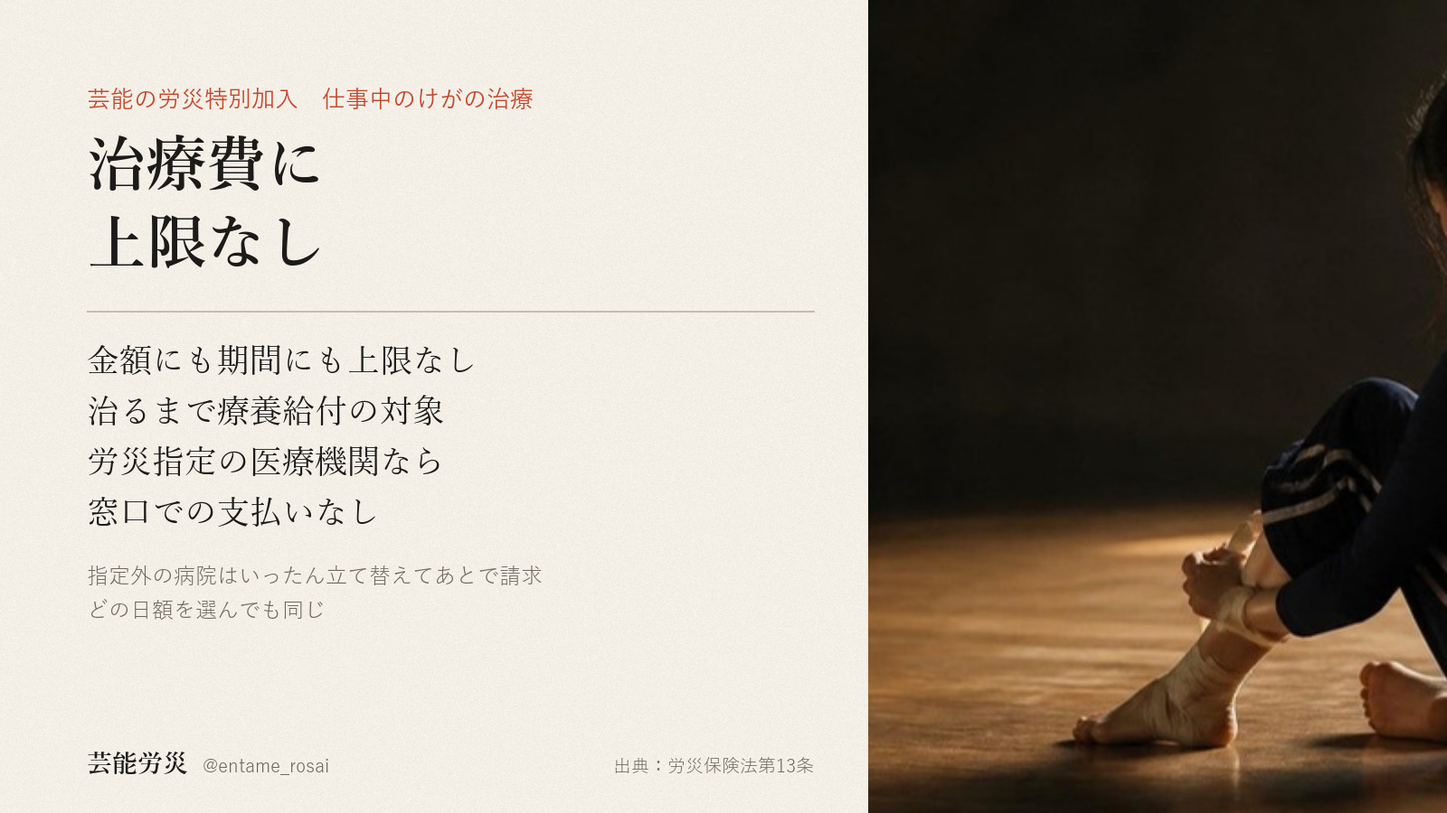
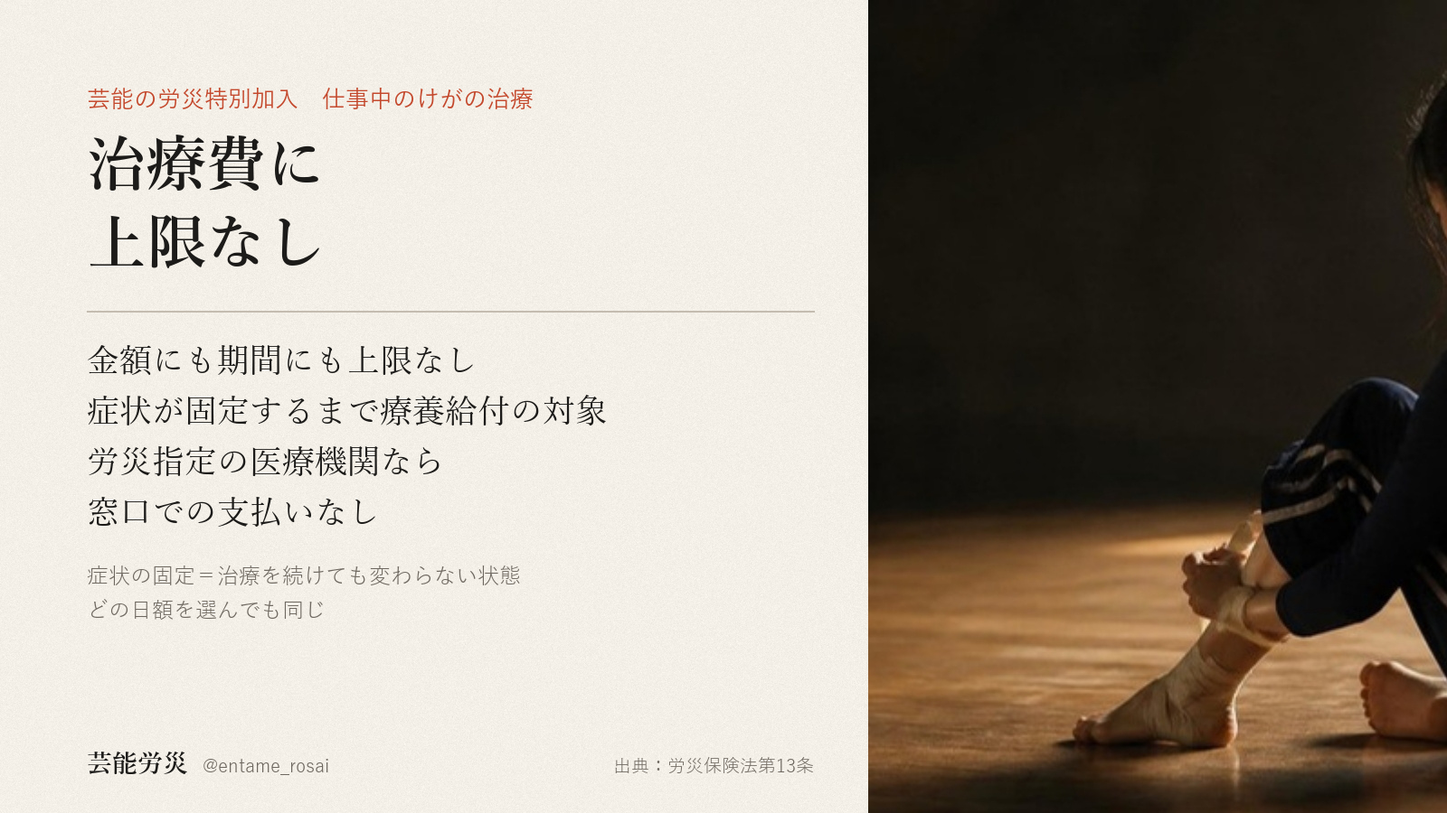
投稿デスク更新 2026-11-11

Changed region(s): [[0.0625, 0.4667, 0.4375, 0.5289], [0.0625, 0.6844, 0.375, 0.7156]]

diff --git a/index.html b/index.html
@@ -351,7 +351,7 @@ dialog img{width:100%;height:auto;border-radius:18px;display:block}
 <div class="toast" id="toast">コピーしました</div>
 <dialog id="zoom"><img alt=""></dialog>
 
-<script id="desk-data" type="application/json">{"account":"@entame_rosai","days":[{"date":"2026-11-11","label":"11月11日（水）　今日","items":[{"key":"ig","date":"2026-11-01","label":"Instagram（@entame_rosai）","account":"@entame_rosai","text":"労災の特別加入は、申込のときに「何月から入るか」「何か月入るか」「給付基礎日額をいくらにするか」の3つを自分で決めます。\n\n何月から入るかは、11月1日時点の申込フォームでは2026年11月から2027年3月までの中から選べます。何か月入るかは1か月から。公演や撮影の期間に合わせて決められます。\n\n給付基礎日額は、補償の基準になる1日あたりの額です。3,500円から25,000円までの16段階から、実際の収入とは切り離して自分で選びます。\n\n毎月の支払いは、日額10,000円を選んだ場合で月1,600円。内訳は保険料912円、組合費500円、手数料188円です。ほかに入会事務手数料2,000円が初月だけかかるので、初月の支払いは3,600円です。保険料912円の部分は社会保険料控除の対象です。\n\nひとつ大事なことがあります。さかのぼって入ることはできません。補償は申込で選んだ月から始まり、それより前のけがは対象になりません。現場の予定が決まったら、先に手続きを済ませておく形です。\n\n手続きはプロフィール欄のサイトからできます。迷う点があれば、コメントに書いてもらえれば調べます。\n\n私たちは東京労働局長の承認を受けた労災保険特別加入団体で、加入の受付もしている当事者です。そのうえで書いています。特別加入を扱う団体は、私たちのほかにもあります。\n\n※給付の可否・金額は個別の状況により労働基準監督署が判断します。\n※金額は、給付基礎日額10,000円を選んだ場合の例です。","chars":628,"lines":16,"hashtags":0,"limit":0,"status":"生成済・未投稿（本人の投稿許可あり。Chrome で instagram.com を開く操作が承認待ちのまま5分応答がなく送信されず。次に本人がいるときに投稿する）","url":"","images":[{"name":"01.png","path":"assets/2026-11-01/instagram/01.png"},{"name":"02.png","path":"assets/2026-11-01/instagram/02.png"},{"name":"03.png","path":"assets/2026-11-01/instagram/03.png"},{"name":"04.png","path":"assets/2026-11-01/instagram/04.png"},{"name":"05.png","path":"assets/2026-11-01/instagram/05.png"},{"name":"06.png","path":"assets/2026-11-01/instagram/06.png"},{"name":"07.png","path":"assets/2026-11-01/instagram/07.png"}],"alt":"--- 1枚目 ---\n暗い劇場の舞台の縁に腰かけ、赤い客席を見ている人の後ろ姿の写真。文字：フリーランスの労災保険。加入の手続き。申込で決めることと毎月の支払い。さかのぼって入ることはできないので、先に手続きの中身をまとめました。芸能労災 @entame_rosai 01/07\n\n--- 2枚目 ---\n上半分は夕方の住宅街の路上で、ブームマイクを掲げる録音係とカメラを担ぐ撮影係の後ろ姿の写真。下は生成り色の紙面。文字：申込で決めること1。何月から入るか。開始月は申込のときに選びます。11月1日時点では、2026年11月から2027年3月までの中から選べます。補償は、選んだ月から始まります。出典：当団体申込フォーム（11月1日時点）。02/07\n\n--- 3枚目 ---\n右に、屋外のカメラ機材とモニターを操作する手の縦長写真。左は紙面。文字：申込で決めること2。何か月入るか。加入期間は1か月から選べます。公演や撮影の期間に合わせて決められます。何月から何か月かを申込のときにあわせて決めます。出典：当団体申込フォーム（11月1日時点）。03/07\n\n--- 4枚目 ---\n文字だけの紙面。申込で決めること3。16段階。給付基礎日額を3,500円から25,000円まで。4列の一覧：3,500、4,000、5,000、6,000、7,000、8,000、9,000、10,000（朱色）、12,000、14,000、16,000、18,000、20,000、22,000、24,000、25,000。単位は円。補償の基準になる1日あたりの額で、実際の収入とは切り離して自分で選びます。朱色の10,000円を次のページの例に使います。出典：労災保険法（特別加入）。04/07\n\n--- 5枚目 ---\n文字だけの紙面。毎月の支払い。日額10,000円なら月1,600円。表：内訳／月額。保険料 912円。組合費 500円。手数料 188円。合計 1,600円。ほかに入会事務手数料2,000円が初月だけかかります。初月の支払いは3,600円です。支払いのうち保険料912円の部分は、社会保険料控除の対象です。出典：当団体申込フォーム（11月1日時点）。05/07\n\n--- 6枚目 ---\n上に、黒い服のスタッフ2人が大きな機材ケースを運ぶ後ろ姿の写真の帯。下は紙面。文字：大事なこと。さかのぼって入ることはできない。補償の開始：申込で選んだ月から。それより前のけが：対象外。現場の予定が決まったら：先に手続き。手続きはプロフィール欄のサイトから。迷う点があれば、コメントに書いてもらえれば調べます。出典：当団体申込フォーム（11月1日時点）。06/07\n\n--- 7枚目 ---\n舞台袖の衣装ラックと、パイプ椅子の上に開いた台本の写真を暗くした全面。文字：入る月と期間は自分で決められます。何月から何か月入るか、日額をいくらにするか。申込のときに自分で選べます。迷う点があれば、コメントに書いてもらえれば調べます。私たちは東京労働局長の承認を受けた労災保険特別加入団体で、加入の受付もしている当事者です。そのうえで書いています。特別加入を扱う団体は、私たちのほかにもあります。※給付の可否・金額は個別の状況により労働基準監督署が判断します。※金額は、給付基礎日額10,000円を選んだ場合の例です。芸能労災 @entame_rosai 07/07","check":{"errors":[],"warns":[]},"made":"2026-11-01","slot":"2026-11-11"},{"key":"x","date":"2026-11-02","label":"X（@entame_rosai）","account":"@entame_rosai","text":"俳優やダンサー、舞台や撮影のスタッフが労災の特別加入に入れるようになったのは2021年4月からです。日額10,000円を選んだ場合、月1,600円（保険料912円、組合費500円、手数料188円）と初月だけ入会事務手数料2,000円です。（出典：厚生労働省・当団体申込フォーム）","chars":139,"lines":1,"hashtags":0,"limit":140,"status":"（台帳に記載なし）","url":"","images":[{"name":"x_image.png","path":"assets/2026-11-02/x_image/x_image.png"}],"alt":"舞台袖の暗い幕のそばで、黒い服のスタッフが台本を開いて立っている写真。奥に暖色の舞台照明がにじんでいる。左の生成り色の紙面に次の文字。芸能の労災特別加入。2021年4月。俳優もダンサーもスタッフも この月から特別加入の対象に。日額10,000円なら月1,600円（保険料912円 組合費500円 手数料188円）。初月だけ入会事務手数料2,000円。出典：厚生労働省 当団体申込フォーム。芸能労災 @entame_rosai","check":{"errors":[],"warns":[]},"made":"2026-11-02","slot":"2026-11-11"}]},{"date":"2026-11-12","label":"11月12日（木）　投稿予定","items":[{"key":"x","date":"2026-11-04","label":"X（@entame_rosai）","account":"@entame_rosai","text":"労災の特別加入で受けられる給付は7種類です。けがの治療にかかる療養、働けない日の休業、1年6か月たっても治らず重い場合の傷病年金、障がいが残ったときの給付、介護、遺族、葬祭料。けがをした日が加入期間に入っていることが条件です。（出典：厚生労働省・労災保険法）","chars":129,"lines":1,"hashtags":0,"limit":140,"status":"（台帳に記載なし）","url":"","images":[{"name":"x_image.png","path":"assets/2026-11-04/x_image/x_image.png"}],"alt":"板張りの稽古場で、バレエシューズを履いたダンサーの足がつま先を伸ばしている写真。左の紙面に次の文字。芸能の労災特別加入　給付は7種類　けがの治療にかかる療養　働けない日の休業　傷病年金　障がい　介護　遺族　葬祭料　けがをした日が加入期間に入っていることが条件　出典：厚生労働省 労災保険法　芸能労災 @entame_rosai","check":{"errors":[],"warns":[]},"made":"2026-11-04","slot":"2026-11-12"}]},{"date":"2026-11-13","label":"11月13日（金）　投稿予定","items":[{"key":"x","date":"2026-11-05","label":"X（@entame_rosai）","account":"@entame_rosai","text":"労災の特別加入の申込で最初の月に払う額は、日額10,000円を選んだ場合3,600円です。内訳は月の支払い1,600円（保険料912円＋組合費500円＋手数料188円）と、初月だけの入会事務手数料2,000円。支払いはクレジットカードか銀行振込。（当団体申込フォームの試算）","chars":137,"lines":1,"hashtags":0,"limit":140,"status":"（台帳に記載なし）","url":"","images":[{"name":"x_image.png","path":"assets/2026-11-05/x_image/x_image.png"}],"alt":"舞台袖の机で、ヘッドセットを置いた手元に台本を広げる舞台監督。奥の舞台では稽古中の出演者が照明に照らされている。左の紙面の文字：芸能の労災特別加入　最初の月に払う額は3,600円　内訳　日額10,000円の場合　保険料 912円　組合費 500円　手数料 188円　入会事務手数料 2,000円　入会事務手数料は初月だけ　2か月目からは月1,600円　支払いはクレジットカードか銀行振込　芸能労災 @entame_rosai　出典：当団体の申込フォームの試算","check":{"errors":[],"warns":[]},"made":"2026-11-05","slot":"2026-11-13"}]},{"date":"2026-11-14","label":"11月14日（土）　投稿予定","items":[{"key":"x","date":"2026-11-06","label":"X（@entame_rosai）","account":"@entame_rosai","text":"労災の特別加入に加入の審査はありません。年齢や持病、危険の大きい仕事を理由に断られず、保険料の割増もありません。日額10,000円を選んだ場合、月1,600円（保険料912円＋組合費500円＋手数料188円）、初月だけ入会事務手数料2,000円です。（当団体申込フォームの試算）","chars":139,"lines":1,"hashtags":0,"limit":140,"status":"（台帳に記載なし）","url":"","images":[{"name":"x_image.png","path":"assets/2026-11-06/x_image/x_image.png"}],"alt":"木の壁の稽古場で、青いマットの上で黒い練習着のアクション俳優が後ろ向きに脚を開いてストレッチをしている。奥の窓から光が入っている。左の紙面の文字：芸能の労災特別加入　加入に審査はない　年齢や持病を理由に断られない　危険の大きい仕事でも割増なし　日額10,000円の場合　月1,600円　保険料912円＋組合費500円＋手数料188円　初月だけ入会事務手数料2,000円　日額は3,500円から25,000円まで自分で選ぶ　芸能労災 @entame_rosai　出典：当団体の申込フォームの試算","check":{"errors":[],"warns":[]},"made":"2026-11-06","slot":"2026-11-14"}]},{"date":"2026-11-15","label":"11月15日（日）　投稿予定","items":[{"key":"x","date":"2026-11-07","label":"X（@entame_rosai）","account":"@entame_rosai","text":"労災の特別加入の給付基礎日額は、申込のときに3,500円から25,000円までの16段階から自分で選びます。給付の額も保険料も、この日額で決まります。日額10,000円を選んだ場合、月の支払い1,600円と初月だけ入会事務手数料2,000円です。（当団体申込フォーム）","chars":134,"lines":1,"hashtags":0,"limit":140,"status":"（台帳に記載なし）","url":"","images":[{"name":"x_image.png","path":"assets/2026-11-07/x_image/x_image.png"}],"alt":"薄い紙色の面の右半分に、暗い劇場の客席を背に脚立の上で照明をつるす作業をするスタッフの写真。左に文字。芸能の労災特別加入　給付基礎日額／16段階／3,500円から25,000円まで　申込のときに自分で選ぶ／給付の額も保険料もこの日額で決まる　日額10,000円の場合　月の支払い1,600円　初月だけ入会事務手数料2,000円／芸能労災 @entame_rosai／出典：当団体の申込フォーム","check":{"errors":[],"warns":[]},"made":"2026-11-07","slot":"2026-11-15"}]},{"date":"2026-11-16","label":"11月16日（月）　投稿予定","items":[{"key":"x","date":"2026-11-08","label":"X（@entame_rosai）","account":"@entame_rosai","text":"労災の特別加入の保険料率は、芸能の仕事なら職種で変わりません。アクションでもダンスでも照明でも一律0.3%です。日額10,000円を選んだ場合、月の支払い1,600円と初月だけ入会事務手数料2,000円です。（厚労省の特別加入保険料率表・当団体申込フォーム）","chars":129,"lines":1,"hashtags":0,"limit":140,"status":"（台帳に記載なし）","url":"","images":[{"name":"x_image.png","path":"assets/2026-11-08/x_image/x_image.png"}],"alt":"右半分は青空を背景にした屋外ステージの照明トラスの写真。アルミのトラスに舞台用のスポットライトが5灯ほど吊られている。左半分は紙の色の面に文字。芸能の労災特別加入　保険料率／芸能の仕事なら 職種で変わらない／職種 保険料率／アクション 0.3%／ダンス 0.3%／照明・音響 0.3%／日額10,000円の場合　月の支払い1,600円／初月だけ入会事務手数料2,000円／芸能労災 @entame_rosai／出典：厚労省 料率表／当団体の申込フォーム","check":{"errors":[],"warns":["競合の調査由来かもしれない数字/語: 0.3%　… …職種で変わりません。アクションでもダンスでも照明でも一律0.3%です。日額10,000円を選んだ場合、月の支払い1,60…"]},"made":"2026-11-08","slot":"2026-11-16"}]},{"date":"2026-11-17","label":"11月17日（火）　投稿予定","items":[{"key":"x","date":"2026-11-09","label":"X（@entame_rosai）","account":"@entame_rosai","text":"労災の特別加入で仕事中のけがにより障がいが残ったとき、重い等級（1〜7級）の給付は一時金ではなく年金で、毎年続きます。日額10,000円を選んだ場合、1級で年313万円（日額の313日分）です。8〜14級は一時金です。（労災保険法 別表第1・当団体申込フォーム）","chars":131,"lines":1,"hashtags":0,"limit":140,"status":"（台帳に記載なし）","url":"","images":[{"name":"x_image.png","path":"assets/2026-11-09/x_image/x_image.png"}],"alt":"青い照明の暗い舞台に、木の椅子が4脚並んでいる写真。左の紙面に次の文字。芸能の労災特別加入　障がいが残ったとき。一時金ではなく年金で続く。重い等級（1〜7級）の給付は年金。日額10,000円を選んだ場合。1級で年313万円（日額の313日分）。8〜14級は一時金。芸能労災 @entame_rosai。出典：労災保険法 別表第1／当団体の申込フォーム","check":{"errors":[],"warns":[]},"made":"2026-11-09","slot":"2026-11-17"}]},{"date":"2026-11-18","label":"11月18日（水）　投稿予定","items":[{"key":"x","date":"2026-11-10","label":"X（@entame_rosai）","account":"@entame_rosai","text":"労災の特別加入は、現場へ向かう途中と帰り道のけがも通勤災害として対象です。芸能の仕事は適用から外れていません。ただし対象は合理的な経路に限られ、寄り道すると、その間とその後の移動は原則対象外です。給付は仕事中のけがと同じです。（労災保険法第7条・厚労省 特別加入制度のしおり）","chars":138,"lines":1,"hashtags":0,"limit":140,"status":"（台帳に記載なし）","url":"","images":[{"name":"x_image.png","path":"assets/2026-11-10/x_image/x_image.png"}],"alt":"ポスターが貼られた狭い廊下を、ギターケースを提げた長髪の人が奥へ歩いていく後ろ姿の写真。左の紙面に次の文字。芸能の労災特別加入　通勤災害。行き帰りのけがも対象。場面／労災の扱い。現場へ向かう途中／対象。現場からの帰り道／対象。経路外に寄り道／原則対象外。寄り道の間とその後の移動は原則対象外　給付は仕事中のけがと同じ。芸能労災 @entame_rosai。出典：労災保険法第7条／厚労省 特別加入のしおり","check":{"errors":[],"warns":[]},"made":"2026-11-10","slot":"2026-11-18"}]},{"date":"2026-11-19","label":"11月19日（木）　投稿予定","items":[{"key":"x","date":"2026-11-11","label":"X（@entame_rosai）","account":"@entame_rosai","text":"労災の特別加入で仕事中のけがを治療するとき、治療費に金額の上限も期間の上限もありません。治るまで療養給付の対象です。労災指定の医療機関なら窓口での支払いはなく、それ以外の病院ではいったん立て替えて、あとで請求します。どの日額を選んでも同じです。（労災保険法第13条）","chars":133,"lines":1,"hashtags":0,"limit":140,"status":"（台帳に記載なし）","url":"","images":[{"name":"x_image.png","path":"assets/2026-11-11/x_image/x_image.png"}],"alt":"暗い稽古場の床に座り、足首にテーピングを巻いているダンサーの足元の写真。左の紙面に次の文字。芸能の労災特別加入　仕事中のけがの治療。治療費に上限なし。金額にも期間にも上限なし。治るまで療養給付の対象。労災指定の医療機関なら窓口での支払いなし。指定外の病院はいったん立て替えてあとで請求。どの日額を選んでも同じ。芸能労災 @entame_rosai。出典：労災保険法第13条","check":{"errors":[],"warns":[]},"made":"2026-11-11","slot":"2026-11-19"}]}],"todo":[{"due":"今日","who":"作業者","title":"X（@entame_rosai）の今日の投稿","detail":"画像1枚を添付 → 代替テキストを入れる → 本文を貼る、の順。代替テキストは直近の投稿で入っていません。X は投稿後に足せません。","cid":"c-2026-11-02-x"},{"due":"今日","who":"作業者","title":"Instagram を1本投稿（11/1（日）作成の分）","detail":"画像7枚をこの順で添付し、1枚ずつ代替テキストを入れる。未投稿は1本。前回の公開から1週間あけて1本ずつ。","cid":"c-2026-11-01-ig"},{"due":"未公開のまま","who":"矢部さん","title":"note の記事を公開（09/18作成）","detail":"このデスクには載っていません（note は矢部さんの手元の下書き）。公開するときは見出し画像を必ず設定。","cid":""},{"due":"未公開のまま","who":"矢部さん","title":"note の記事を公開（10/09作成）","detail":"このデスクには載っていません（note は矢部さんの手元の下書き）。公開するときは見出し画像を必ず設定。","cid":""},{"due":"投稿のたび","who":"作業者","title":"投稿URLと名前を、そのカードの欄に保存","detail":"記録が集まらないと、何が出たかを後から確かめられません。","cid":""}],"builtAt":"2026-11-11 08:03","today":"2026-11-11","followers":{"date":"10-13","x":5,"ig":21,"note":0},"hero":"assets/hero.jpg","endpoint":"https://script.google.com/macros/s/AKfycbxhxM75PszpPOX_HDJ4yuBmQSqu1b7CXq2sbCxlqTZ_TyF8hROH2MyKnYNU11avb8UQCA/exec"}</script>
+<script id="desk-data" type="application/json">{"account":"@entame_rosai","days":[{"date":"2026-11-11","label":"11月11日（水）　今日","items":[{"key":"ig","date":"2026-11-01","label":"Instagram（@entame_rosai）","account":"@entame_rosai","text":"労災の特別加入は、申込のときに「何月から入るか」「何か月入るか」「給付基礎日額をいくらにするか」の3つを自分で決めます。\n\n何月から入るかは、11月1日時点の申込フォームでは2026年11月から2027年3月までの中から選べます。何か月入るかは1か月から。公演や撮影の期間に合わせて決められます。\n\n給付基礎日額は、補償の基準になる1日あたりの額です。3,500円から25,000円までの16段階から、実際の収入とは切り離して自分で選びます。\n\n毎月の支払いは、日額10,000円を選んだ場合で月1,600円。内訳は保険料912円、組合費500円、手数料188円です。ほかに入会事務手数料2,000円が初月だけかかるので、初月の支払いは3,600円です。保険料912円の部分は社会保険料控除の対象です。\n\nひとつ大事なことがあります。さかのぼって入ることはできません。補償は申込で選んだ月から始まり、それより前のけがは対象になりません。現場の予定が決まったら、先に手続きを済ませておく形です。\n\n手続きはプロフィール欄のサイトからできます。迷う点があれば、コメントに書いてもらえれば調べます。\n\n私たちは東京労働局長の承認を受けた労災保険特別加入団体で、加入の受付もしている当事者です。そのうえで書いています。特別加入を扱う団体は、私たちのほかにもあります。\n\n※給付の可否・金額は個別の状況により労働基準監督署が判断します。\n※金額は、給付基礎日額10,000円を選んだ場合の例です。","chars":628,"lines":16,"hashtags":0,"limit":0,"status":"生成済・未投稿（本人の投稿許可あり。Chrome で instagram.com を開く操作が承認待ちのまま5分応答がなく送信されず。次に本人がいるときに投稿する）","url":"","images":[{"name":"01.png","path":"assets/2026-11-01/instagram/01.png"},{"name":"02.png","path":"assets/2026-11-01/instagram/02.png"},{"name":"03.png","path":"assets/2026-11-01/instagram/03.png"},{"name":"04.png","path":"assets/2026-11-01/instagram/04.png"},{"name":"05.png","path":"assets/2026-11-01/instagram/05.png"},{"name":"06.png","path":"assets/2026-11-01/instagram/06.png"},{"name":"07.png","path":"assets/2026-11-01/instagram/07.png"}],"alt":"--- 1枚目 ---\n暗い劇場の舞台の縁に腰かけ、赤い客席を見ている人の後ろ姿の写真。文字：フリーランスの労災保険。加入の手続き。申込で決めることと毎月の支払い。さかのぼって入ることはできないので、先に手続きの中身をまとめました。芸能労災 @entame_rosai 01/07\n\n--- 2枚目 ---\n上半分は夕方の住宅街の路上で、ブームマイクを掲げる録音係とカメラを担ぐ撮影係の後ろ姿の写真。下は生成り色の紙面。文字：申込で決めること1。何月から入るか。開始月は申込のときに選びます。11月1日時点では、2026年11月から2027年3月までの中から選べます。補償は、選んだ月から始まります。出典：当団体申込フォーム（11月1日時点）。02/07\n\n--- 3枚目 ---\n右に、屋外のカメラ機材とモニターを操作する手の縦長写真。左は紙面。文字：申込で決めること2。何か月入るか。加入期間は1か月から選べます。公演や撮影の期間に合わせて決められます。何月から何か月かを申込のときにあわせて決めます。出典：当団体申込フォーム（11月1日時点）。03/07\n\n--- 4枚目 ---\n文字だけの紙面。申込で決めること3。16段階。給付基礎日額を3,500円から25,000円まで。4列の一覧：3,500、4,000、5,000、6,000、7,000、8,000、9,000、10,000（朱色）、12,000、14,000、16,000、18,000、20,000、22,000、24,000、25,000。単位は円。補償の基準になる1日あたりの額で、実際の収入とは切り離して自分で選びます。朱色の10,000円を次のページの例に使います。出典：労災保険法（特別加入）。04/07\n\n--- 5枚目 ---\n文字だけの紙面。毎月の支払い。日額10,000円なら月1,600円。表：内訳／月額。保険料 912円。組合費 500円。手数料 188円。合計 1,600円。ほかに入会事務手数料2,000円が初月だけかかります。初月の支払いは3,600円です。支払いのうち保険料912円の部分は、社会保険料控除の対象です。出典：当団体申込フォーム（11月1日時点）。05/07\n\n--- 6枚目 ---\n上に、黒い服のスタッフ2人が大きな機材ケースを運ぶ後ろ姿の写真の帯。下は紙面。文字：大事なこと。さかのぼって入ることはできない。補償の開始：申込で選んだ月から。それより前のけが：対象外。現場の予定が決まったら：先に手続き。手続きはプロフィール欄のサイトから。迷う点があれば、コメントに書いてもらえれば調べます。出典：当団体申込フォーム（11月1日時点）。06/07\n\n--- 7枚目 ---\n舞台袖の衣装ラックと、パイプ椅子の上に開いた台本の写真を暗くした全面。文字：入る月と期間は自分で決められます。何月から何か月入るか、日額をいくらにするか。申込のときに自分で選べます。迷う点があれば、コメントに書いてもらえれば調べます。私たちは東京労働局長の承認を受けた労災保険特別加入団体で、加入の受付もしている当事者です。そのうえで書いています。特別加入を扱う団体は、私たちのほかにもあります。※給付の可否・金額は個別の状況により労働基準監督署が判断します。※金額は、給付基礎日額10,000円を選んだ場合の例です。芸能労災 @entame_rosai 07/07","check":{"errors":[],"warns":[]},"made":"2026-11-01","slot":"2026-11-11"},{"key":"x","date":"2026-11-02","label":"X（@entame_rosai）","account":"@entame_rosai","text":"俳優やダンサー、舞台や撮影のスタッフが労災の特別加入に入れるようになったのは2021年4月からです。日額10,000円を選んだ場合、月1,600円（保険料912円、組合費500円、手数料188円）と初月だけ入会事務手数料2,000円です。（出典：厚生労働省・当団体申込フォーム）","chars":139,"lines":1,"hashtags":0,"limit":140,"status":"（台帳に記載なし）","url":"","images":[{"name":"x_image.png","path":"assets/2026-11-02/x_image/x_image.png"}],"alt":"舞台袖の暗い幕のそばで、黒い服のスタッフが台本を開いて立っている写真。奥に暖色の舞台照明がにじんでいる。左の生成り色の紙面に次の文字。芸能の労災特別加入。2021年4月。俳優もダンサーもスタッフも この月から特別加入の対象に。日額10,000円なら月1,600円（保険料912円 組合費500円 手数料188円）。初月だけ入会事務手数料2,000円。出典：厚生労働省 当団体申込フォーム。芸能労災 @entame_rosai","check":{"errors":[],"warns":[]},"made":"2026-11-02","slot":"2026-11-11"}]},{"date":"2026-11-12","label":"11月12日（木）　投稿予定","items":[{"key":"x","date":"2026-11-04","label":"X（@entame_rosai）","account":"@entame_rosai","text":"労災の特別加入で受けられる給付は7種類です。けがの治療にかかる療養、働けない日の休業、1年6か月たっても治らず重い場合の傷病年金、障がいが残ったときの給付、介護、遺族、葬祭料。けがをした日が加入期間に入っていることが条件です。（出典：厚生労働省・労災保険法）","chars":129,"lines":1,"hashtags":0,"limit":140,"status":"（台帳に記載なし）","url":"","images":[{"name":"x_image.png","path":"assets/2026-11-04/x_image/x_image.png"}],"alt":"板張りの稽古場で、バレエシューズを履いたダンサーの足がつま先を伸ばしている写真。左の紙面に次の文字。芸能の労災特別加入　給付は7種類　けがの治療にかかる療養　働けない日の休業　傷病年金　障がい　介護　遺族　葬祭料　けがをした日が加入期間に入っていることが条件　出典：厚生労働省 労災保険法　芸能労災 @entame_rosai","check":{"errors":[],"warns":[]},"made":"2026-11-04","slot":"2026-11-12"}]},{"date":"2026-11-13","label":"11月13日（金）　投稿予定","items":[{"key":"x","date":"2026-11-05","label":"X（@entame_rosai）","account":"@entame_rosai","text":"労災の特別加入の申込で最初の月に払う額は、日額10,000円を選んだ場合3,600円です。内訳は月の支払い1,600円（保険料912円＋組合費500円＋手数料188円）と、初月だけの入会事務手数料2,000円。支払いはクレジットカードか銀行振込。（当団体申込フォームの試算）","chars":137,"lines":1,"hashtags":0,"limit":140,"status":"（台帳に記載なし）","url":"","images":[{"name":"x_image.png","path":"assets/2026-11-05/x_image/x_image.png"}],"alt":"舞台袖の机で、ヘッドセットを置いた手元に台本を広げる舞台監督。奥の舞台では稽古中の出演者が照明に照らされている。左の紙面の文字：芸能の労災特別加入　最初の月に払う額は3,600円　内訳　日額10,000円の場合　保険料 912円　組合費 500円　手数料 188円　入会事務手数料 2,000円　入会事務手数料は初月だけ　2か月目からは月1,600円　支払いはクレジットカードか銀行振込　芸能労災 @entame_rosai　出典：当団体の申込フォームの試算","check":{"errors":[],"warns":[]},"made":"2026-11-05","slot":"2026-11-13"}]},{"date":"2026-11-14","label":"11月14日（土）　投稿予定","items":[{"key":"x","date":"2026-11-06","label":"X（@entame_rosai）","account":"@entame_rosai","text":"労災の特別加入に加入の審査はありません。年齢や持病、危険の大きい仕事を理由に断られず、保険料の割増もありません。日額10,000円を選んだ場合、月1,600円（保険料912円＋組合費500円＋手数料188円）、初月だけ入会事務手数料2,000円です。（当団体申込フォームの試算）","chars":139,"lines":1,"hashtags":0,"limit":140,"status":"（台帳に記載なし）","url":"","images":[{"name":"x_image.png","path":"assets/2026-11-06/x_image/x_image.png"}],"alt":"木の壁の稽古場で、青いマットの上で黒い練習着のアクション俳優が後ろ向きに脚を開いてストレッチをしている。奥の窓から光が入っている。左の紙面の文字：芸能の労災特別加入　加入に審査はない　年齢や持病を理由に断られない　危険の大きい仕事でも割増なし　日額10,000円の場合　月1,600円　保険料912円＋組合費500円＋手数料188円　初月だけ入会事務手数料2,000円　日額は3,500円から25,000円まで自分で選ぶ　芸能労災 @entame_rosai　出典：当団体の申込フォームの試算","check":{"errors":[],"warns":[]},"made":"2026-11-06","slot":"2026-11-14"}]},{"date":"2026-11-15","label":"11月15日（日）　投稿予定","items":[{"key":"x","date":"2026-11-07","label":"X（@entame_rosai）","account":"@entame_rosai","text":"労災の特別加入の給付基礎日額は、申込のときに3,500円から25,000円までの16段階から自分で選びます。給付の額も保険料も、この日額で決まります。日額10,000円を選んだ場合、月の支払い1,600円と初月だけ入会事務手数料2,000円です。（当団体申込フォーム）","chars":134,"lines":1,"hashtags":0,"limit":140,"status":"（台帳に記載なし）","url":"","images":[{"name":"x_image.png","path":"assets/2026-11-07/x_image/x_image.png"}],"alt":"薄い紙色の面の右半分に、暗い劇場の客席を背に脚立の上で照明をつるす作業をするスタッフの写真。左に文字。芸能の労災特別加入　給付基礎日額／16段階／3,500円から25,000円まで　申込のときに自分で選ぶ／給付の額も保険料もこの日額で決まる　日額10,000円の場合　月の支払い1,600円　初月だけ入会事務手数料2,000円／芸能労災 @entame_rosai／出典：当団体の申込フォーム","check":{"errors":[],"warns":[]},"made":"2026-11-07","slot":"2026-11-15"}]},{"date":"2026-11-16","label":"11月16日（月）　投稿予定","items":[{"key":"x","date":"2026-11-08","label":"X（@entame_rosai）","account":"@entame_rosai","text":"労災の特別加入の保険料率は、芸能の仕事なら職種で変わりません。アクションでもダンスでも照明でも一律0.3%です。日額10,000円を選んだ場合、月の支払い1,600円と初月だけ入会事務手数料2,000円です。（厚労省の特別加入保険料率表・当団体申込フォーム）","chars":129,"lines":1,"hashtags":0,"limit":140,"status":"（台帳に記載なし）","url":"","images":[{"name":"x_image.png","path":"assets/2026-11-08/x_image/x_image.png"}],"alt":"右半分は青空を背景にした屋外ステージの照明トラスの写真。アルミのトラスに舞台用のスポットライトが5灯ほど吊られている。左半分は紙の色の面に文字。芸能の労災特別加入　保険料率／芸能の仕事なら 職種で変わらない／職種 保険料率／アクション 0.3%／ダンス 0.3%／照明・音響 0.3%／日額10,000円の場合　月の支払い1,600円／初月だけ入会事務手数料2,000円／芸能労災 @entame_rosai／出典：厚労省 料率表／当団体の申込フォーム","check":{"errors":[],"warns":["競合の調査由来かもしれない数字/語: 0.3%　… …職種で変わりません。アクションでもダンスでも照明でも一律0.3%です。日額10,000円を選んだ場合、月の支払い1,60…"]},"made":"2026-11-08","slot":"2026-11-16"}]},{"date":"2026-11-17","label":"11月17日（火）　投稿予定","items":[{"key":"x","date":"2026-11-09","label":"X（@entame_rosai）","account":"@entame_rosai","text":"労災の特別加入で仕事中のけがにより障がいが残ったとき、重い等級（1〜7級）の給付は一時金ではなく年金で、毎年続きます。日額10,000円を選んだ場合、1級で年313万円（日額の313日分）です。8〜14級は一時金です。（労災保険法 別表第1・当団体申込フォーム）","chars":131,"lines":1,"hashtags":0,"limit":140,"status":"（台帳に記載なし）","url":"","images":[{"name":"x_image.png","path":"assets/2026-11-09/x_image/x_image.png"}],"alt":"青い照明の暗い舞台に、木の椅子が4脚並んでいる写真。左の紙面に次の文字。芸能の労災特別加入　障がいが残ったとき。一時金ではなく年金で続く。重い等級（1〜7級）の給付は年金。日額10,000円を選んだ場合。1級で年313万円（日額の313日分）。8〜14級は一時金。芸能労災 @entame_rosai。出典：労災保険法 別表第1／当団体の申込フォーム","check":{"errors":[],"warns":[]},"made":"2026-11-09","slot":"2026-11-17"}]},{"date":"2026-11-18","label":"11月18日（水）　投稿予定","items":[{"key":"x","date":"2026-11-10","label":"X（@entame_rosai）","account":"@entame_rosai","text":"労災の特別加入は、現場へ向かう途中と帰り道のけがも通勤災害として対象です。芸能の仕事は適用から外れていません。ただし対象は合理的な経路に限られ、寄り道すると、その間とその後の移動は原則対象外です。給付は仕事中のけがと同じです。（労災保険法第7条・厚労省 特別加入制度のしおり）","chars":138,"lines":1,"hashtags":0,"limit":140,"status":"（台帳に記載なし）","url":"","images":[{"name":"x_image.png","path":"assets/2026-11-10/x_image/x_image.png"}],"alt":"ポスターが貼られた狭い廊下を、ギターケースを提げた長髪の人が奥へ歩いていく後ろ姿の写真。左の紙面に次の文字。芸能の労災特別加入　通勤災害。行き帰りのけがも対象。場面／労災の扱い。現場へ向かう途中／対象。現場からの帰り道／対象。経路外に寄り道／原則対象外。寄り道の間とその後の移動は原則対象外　給付は仕事中のけがと同じ。芸能労災 @entame_rosai。出典：労災保険法第7条／厚労省 特別加入のしおり","check":{"errors":[],"warns":[]},"made":"2026-11-10","slot":"2026-11-18"}]},{"date":"2026-11-19","label":"11月19日（木）　投稿予定","items":[{"key":"x","date":"2026-11-11","label":"X（@entame_rosai）","account":"@entame_rosai","text":"労災の特別加入で仕事中のけがを治療するとき、治療費に金額の上限も、決まった期間の上限もありません。症状が固定する（治療を続けても変わらない状態になる）まで療養給付の対象です。労災指定の医療機関なら窓口での支払いはありません。どの日額を選んでも同じです。（労災保険法第13条）","chars":137,"lines":1,"hashtags":0,"limit":140,"status":"（台帳に記載なし）","url":"","images":[{"name":"x_image.png","path":"assets/2026-11-11/x_image/x_image.png"}],"alt":"暗い稽古場の床に座り、足首にテーピングを巻いているダンサーの足元の写真。左の紙面に次の文字。芸能の労災特別加入　仕事中のけがの治療。治療費に上限なし。金額にも期間にも上限なし。症状が固定するまで療養給付の対象。労災指定の医療機関なら窓口での支払いなし。症状の固定＝治療を続けても変わらない状態。どの日額を選んでも同じ。芸能労災 @entame_rosai。出典：労災保険法第13条","check":{"errors":[],"warns":[]},"made":"2026-11-11","slot":"2026-11-19"}]}],"todo":[{"due":"今日","who":"作業者","title":"X（@entame_rosai）の今日の投稿","detail":"画像1枚を添付 → 代替テキストを入れる → 本文を貼る、の順。代替テキストは直近の投稿で入っていません。X は投稿後に足せません。","cid":"c-2026-11-02-x"},{"due":"今日","who":"作業者","title":"Instagram を1本投稿（11/1（日）作成の分）","detail":"画像7枚をこの順で添付し、1枚ずつ代替テキストを入れる。未投稿は1本。前回の公開から1週間あけて1本ずつ。","cid":"c-2026-11-01-ig"},{"due":"未公開のまま","who":"矢部さん","title":"note の記事を公開（09/18作成）","detail":"このデスクには載っていません（note は矢部さんの手元の下書き）。公開するときは見出し画像を必ず設定。","cid":""},{"due":"未公開のまま","who":"矢部さん","title":"note の記事を公開（10/09作成）","detail":"このデスクには載っていません（note は矢部さんの手元の下書き）。公開するときは見出し画像を必ず設定。","cid":""},{"due":"投稿のたび","who":"作業者","title":"投稿URLと名前を、そのカードの欄に保存","detail":"記録が集まらないと、何が出たかを後から確かめられません。","cid":""}],"builtAt":"2026-11-11 08:04","today":"2026-11-11","followers":{"date":"10-13","x":5,"ig":21,"note":0},"hero":"assets/hero.jpg","endpoint":"https://script.google.com/macros/s/AKfycbxhxM75PszpPOX_HDJ4yuBmQSqu1b7CXq2sbCxlqTZ_TyF8hROH2MyKnYNU11avb8UQCA/exec"}</script>
 <script>
 (function(){
   var DATA = JSON.parse(document.getElementById('desk-data').textContent);
